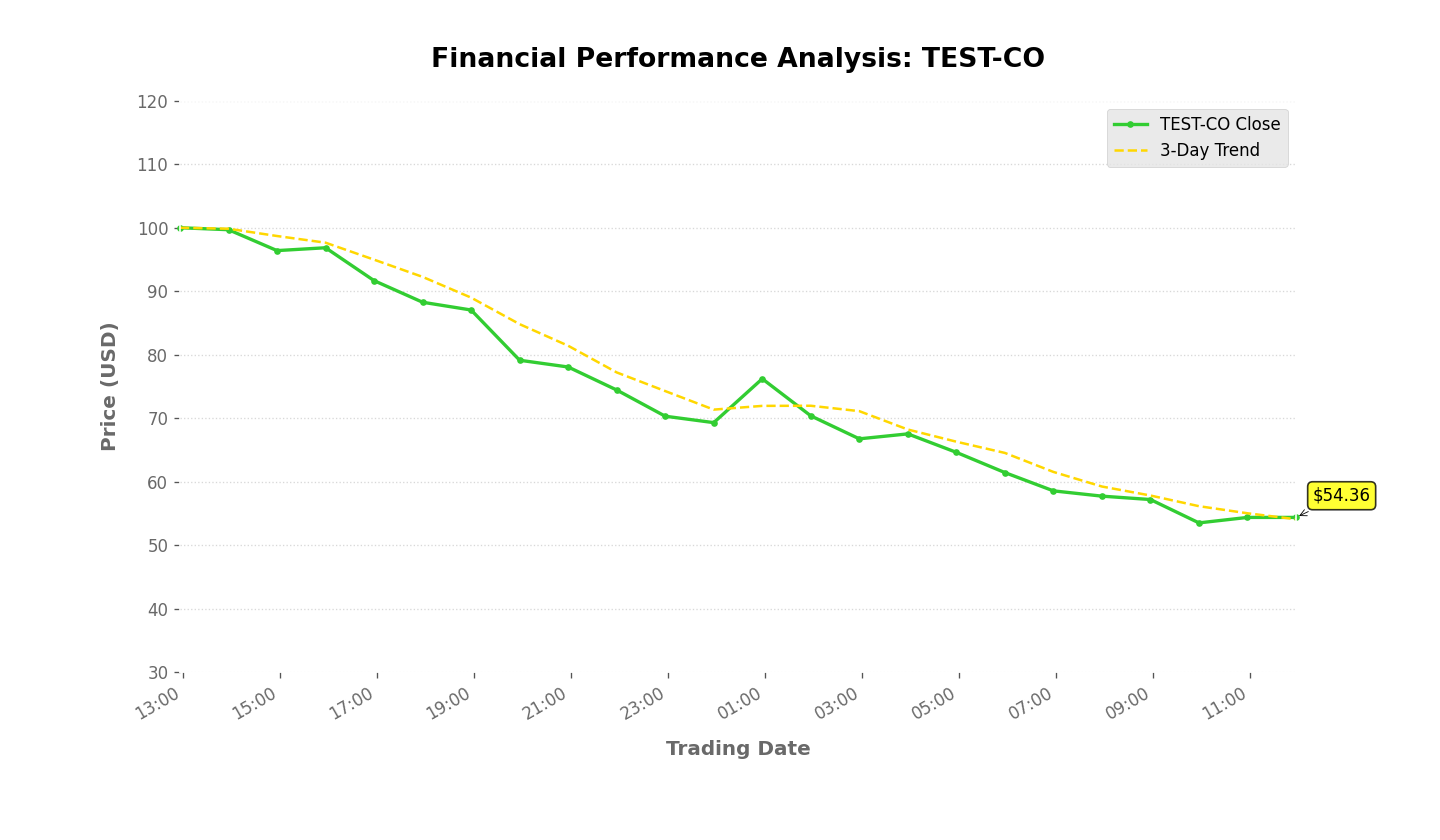
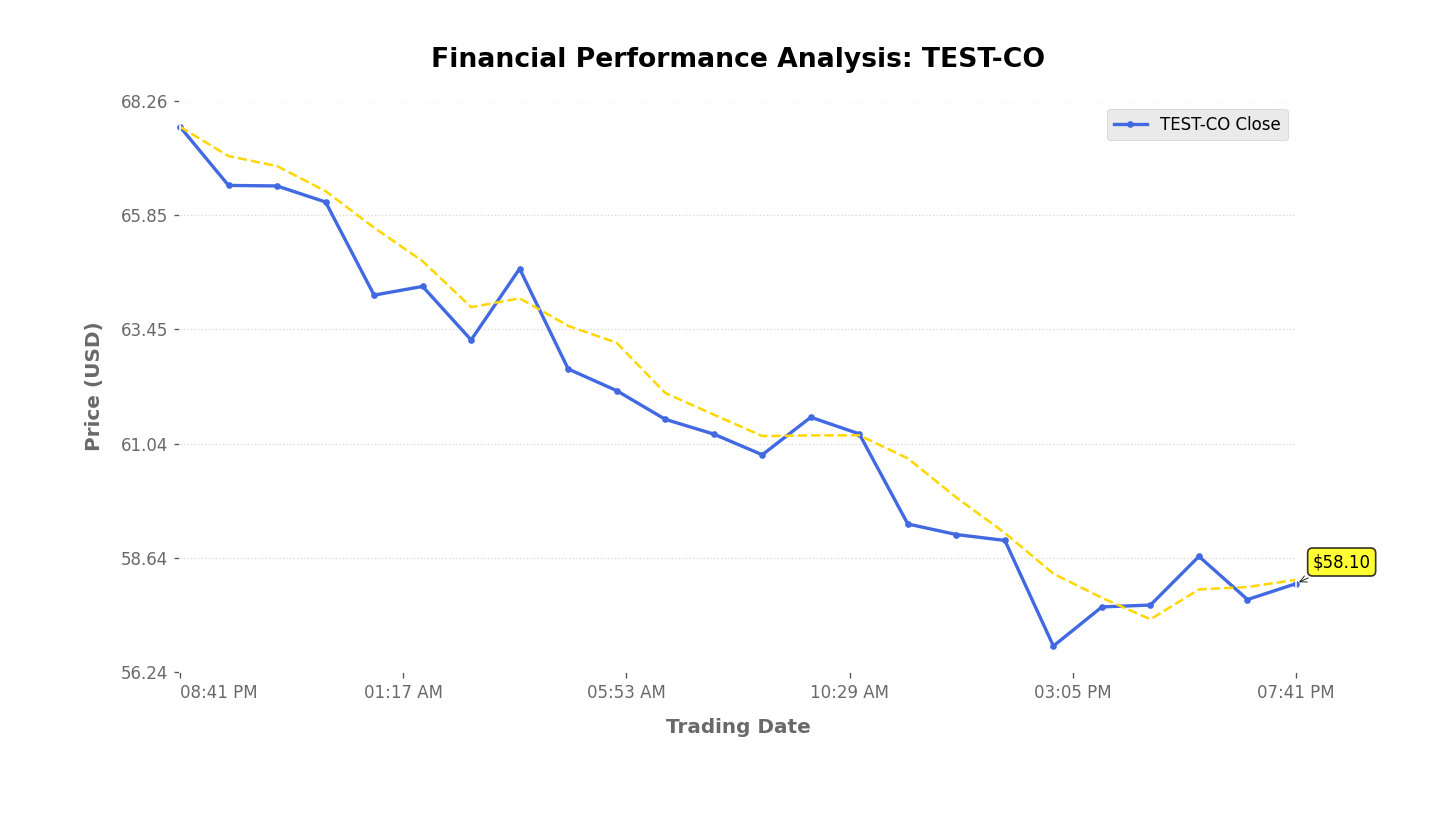
changed time formatter to 12-hour time | improved tick spacing and placement | added new padding method

diff --git a/src/backend/mcp_servers/mcp_chart_generation/server.py b/src/backend/mcp_servers/mcp_chart_generation/server.py
@@ -4,6 +4,7 @@ MCP server for chart generation
 
 import math
 import matplotlib
+import numpy as np
 # CRITICAL: Set the backend to "Agg" before importing pyplot.
 # This prevents the server from trying to open a GUI window, which would crash it.
 matplotlib.use("Agg")
@@ -70,8 +71,27 @@ def _build_base_chart(
     # Format y-axis ticks to two decimal places if prices are within 100
     ax.yaxis.set_major_formatter(plt.FormatStrFormatter('%.2f'))
     
-    # Align data points to start on y-axis (x=0)
+    # Set x-axis limit exactly to data range
     ax.set_xlim(dt_dates[0], dt_dates[-1]) 
+    
+    # Calculate y-axis limits with a small amount of padding (5% on each side)
+    y_min = min(prices)
+    y_max = max(prices)
+    y_range = y_max - y_min
+    padding_factor = 0.05          # 5% padding
+
+    if y_range == 0:
+        # If all prices are the same, use a small absolute padding
+        y_pad = abs(y_min) * 0.01 if y_min != 0 else 1.0
+    else:
+        y_pad = padding_factor * y_range
+
+    print(y_min - y_pad)
+
+    if (y_min - y_pad) < 0: 
+        ax.set_ylim(y_min, y_max + y_pad) # do not datalabels
+    else:
+        ax.set_ylim(y_min - y_pad, y_max + y_pad)
 
     ax.set_facecolor("white")
     fig.patch.set_alpha(0.0)
@@ -87,22 +107,22 @@ def _build_base_chart(
     # Choose locator and formatter based on the table
     if total_hours <= 1:                     # ≤1 hour → 5‑minute ticks
         locator = mdates.MinuteLocator(interval=5)
-        fmt = '%H:%M'
+        fmt = '%I:%M %p'
     elif total_hours <= 2:                   # 1–2 hours → 15‑minute ticks
         locator = mdates.MinuteLocator(interval=15)
-        fmt = '%H:%M'
+        fmt = '%I:%M %p'
     elif total_hours <= 6:                   # 2–6 hours → 30‑minute ticks
         locator = mdates.MinuteLocator(interval=30)
-        fmt = '%H:%M'
+        fmt = '%I:%M %p'
     elif total_hours <= 12:                  # 6–12 hours → 1‑hour ticks
         locator = mdates.HourLocator(interval=1)
-        fmt = '%H:%M'
+        fmt = '%I:%M %p'
     elif total_hours <= 24:                  # 12–24 hours → 2‑hour ticks
         locator = mdates.HourLocator(interval=2)
-        fmt = '%H:%M'
+        fmt = '%I:%M %p'
     elif total_days <= 3:                    # 1–3 days → 6‑hour ticks
         locator = mdates.HourLocator(interval=6)
-        fmt = '%m/%d %H:%M'
+        fmt = '%m/%d %I:%M %p'
     elif total_days <= 7:                    # 3–7 days → 1‑day ticks
         locator = mdates.DayLocator(interval=1)
         fmt = '%m/%d'
@@ -123,6 +143,20 @@ def _build_base_chart(
     ax.xaxis.set_major_locator(locator)
     ax.xaxis.set_major_formatter(mdates.DateFormatter(fmt))
 
+    # Force ticks to be evenly spaced while keeping first and last
+    num_xticks = 6   # 6 ticks including both ends
+    num_yticks = 6
+
+    # X-axis: generate equally spaced positions in the float coordinate
+    xmin, xmax = ax.get_xlim()
+    xticks = np.linspace(xmin, xmax, num_xticks)   # evenly spaced
+    ax.set_xticks(xticks)
+
+    # Y-axis: generate equally spaced price values
+    ymin, ymax = ax.get_ylim()
+    yticks = np.linspace(ymin, ymax, num_yticks)
+    ax.set_yticks(yticks)
+
     # Set tick paramaters, gridlines
     ax.tick_params(axis="both", labelcolor=text_color)
     ax.yaxis.grid(True, which="both", linestyle=":", alpha=0.75, color="#cccccc")
@@ -131,7 +165,10 @@ def _build_base_chart(
     legend_loc = "upper left" if prices[-1] >= prices[0] else "upper right"
     ax.legend(loc=legend_loc)
 
-    fig.autofmt_xdate()
+    # Format datalabels
+    fig.autofmt_xdate(rotation=0, ha="center")
+    labels = ax.get_xticklabels()
+    labels[0].set_horizontalalignment("left")
 
     return fig, ax
     

diff --git a/src/backend/mcp_servers/mcp_chart_generation/test_server.py b/src/backend/mcp_servers/mcp_chart_generation/test_server.py
@@ -2,9 +2,9 @@ from server import *
 from datetime import datetime, timedelta
 import random
 
-START_PRICE = 67.71 # start price for dummy prices
-PRICE_DEVIATION = 3 # how far a new price may deviate from the last price
-NUMBER_OF_POINTS = 30 # number of price points (corresponds with date/time points)
+START_PRICE = 0.69 # start price for dummy prices
+PRICE_DEVIATION = 0.25 # how far a new price may deviate from the last price
+NUMBER_OF_POINTS = 52 # number of price points (corresponds with date/time points)
 
 
 def test_chart_generation(advanced):
@@ -13,8 +13,8 @@ def test_chart_generation(advanced):
     # 1. Simulate Data: Generate dummy stock data
     # This mimics the JSON arguments Gemini would pass to the tool
     base_date = datetime.now()
-    # dates = [(base_date - timedelta(weeks=i)).isoformat() for i in range(52)] # 1-YEAR weekly trend
-    dates = [(base_date - timedelta(days=i)).isoformat() for i in range(30)] # 1-MONTH daily trend
+    dates = [(base_date - timedelta(weeks=i)).isoformat() for i in range(52)] # 1-YEAR weekly trend
+    # dates = [(base_date - timedelta(days=i)).isoformat() for i in range(30)] # 1-MONTH daily trend
     # dates = [(base_date - timedelta(days=i)).isoformat() for i in range(14)] # 2-WEEK daily trend
     # dates = [(base_date - timedelta(hours=i)).isoformat() for i in range(72)] #  3-DAY hourly trend
     # dates = [(base_date - timedelta(hours=i)).isoformat() for i in range(24)] # 1-DAY hourly trend
@@ -24,8 +24,11 @@ def test_chart_generation(advanced):
     # create a random walk for price
     prices = [START_PRICE] # start price
     for _ in range(NUMBER_OF_POINTS - 1):
-        change = random.uniform(-PRICE_DEVIATION, PRICE_DEVIATION) * random.random()
-        prices.append(prices[-1] + change)
+        change = random.uniform(-PRICE_DEVIATION, PRICE_DEVIATION)
+        new_price = prices[-1] + change
+        if new_price < 0:
+            new_price = 0
+        prices.append(new_price)
 
     print(f"Generated {len(dates)} pieces of sample data.")
 
